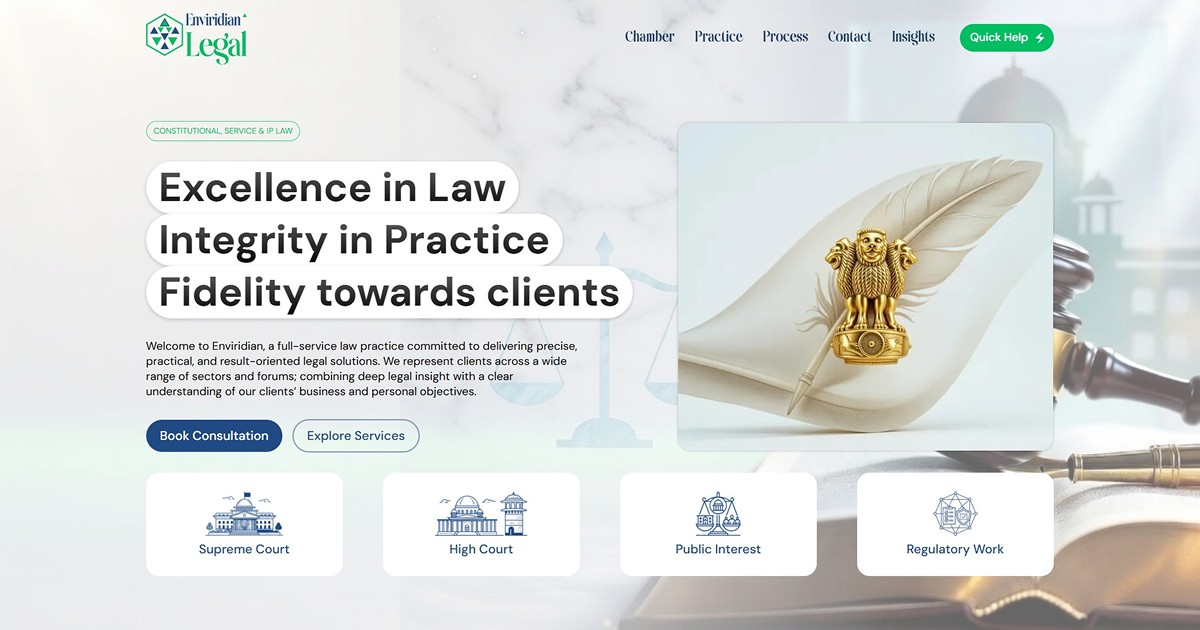
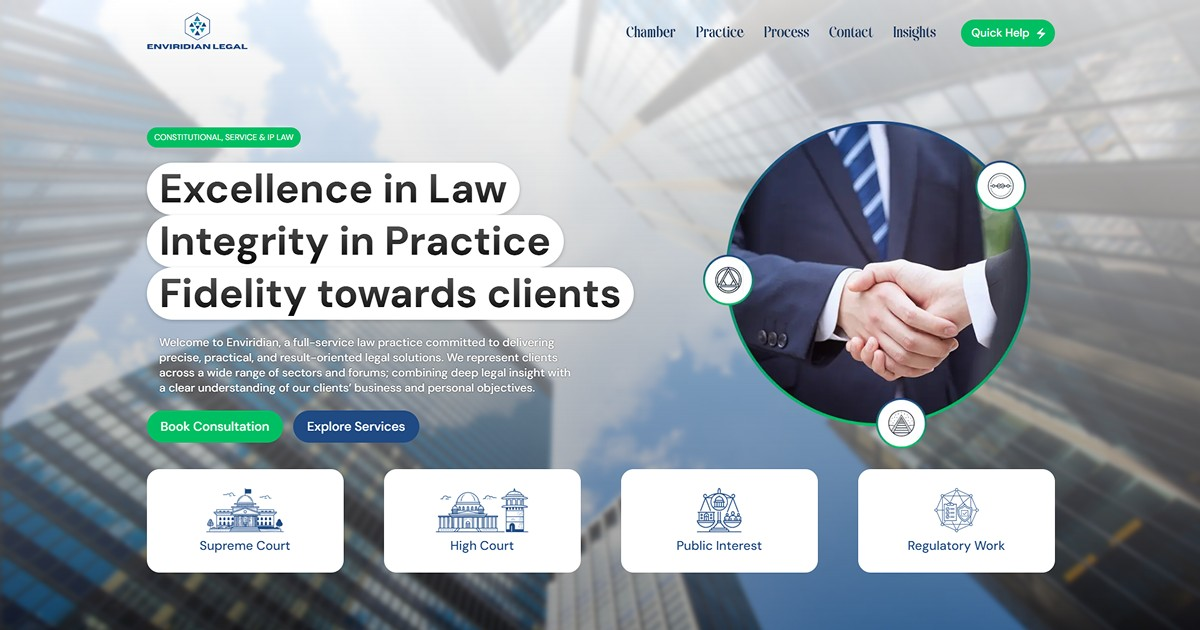
Homepage hero look change

diff --git a/src/components/pages/homepage/HomePageHero.jsx b/src/components/pages/homepage/HomePageHero.jsx
@@ -14,7 +14,7 @@ import Container from "@/components/layout/Container";
 import FullWidthContainer from "@/components/layout/FullWidthContainer";
 import GetFreeConsultation from "@/components/popups/GetFreeConsultation";
 
-import homepageHero from "../../../../public/assets/images/hero-image-fg.jpg";
+import homepageHero from "../../../../public/assets/images/hero-image-fg-4.png";
 import supremeCourt from "../../../../public/assets/images/supreme-court.png";
 import highCourt from "../../../../public/assets/images/high-court.png";
 import publicInterest from "../../../../public/assets/images/public-interest.png";
@@ -28,7 +28,7 @@ const HomePageHero = ({ sectionID, styles }) => {
       <section id={sectionID} className={styles.heroSection}>
         <Box sx={{ display: { xs: "block", sm: "block", lg: "block" } }}>
           <FullWidthContainer
-            image="assets/images/hero-image-3.jpg"
+            image="assets/images/hero-image-7.png"
             align="right"
             width="100%"
             height="100%"
@@ -57,7 +57,7 @@ const HomePageHero = ({ sectionID, styles }) => {
               <Grid size={{ xs: 12, sm: 12, lg: 7 }}>
                 <Stack
                   alignItems={{ xs: "center", sm: "flex-start" }}
-                  spacing={4}
+                  spacing={3}
                 >
                   <motion.div
                     initial={{ opacity: 0, y: 50 }}
@@ -66,7 +66,6 @@ const HomePageHero = ({ sectionID, styles }) => {
                   >
                     <Chip
                       color="secondary"
-                      variant="outlined"
                       size="large"
                       label="CONSTITUTIONAL, SERVICE & IP LAW"
                     />
@@ -128,7 +127,7 @@ const HomePageHero = ({ sectionID, styles }) => {
                     >
                       <GetFreeConsultation
                         variant={"contained"}
-                        color={"primary"}
+                        color={"secondary"}
                         boxTitle="Book Consultation With Us"
                         title="Book Consultation"
                         size="large"
@@ -142,10 +141,12 @@ const HomePageHero = ({ sectionID, styles }) => {
                       transition={{ duration: 0.4, delay: 1.2 }}
                     >
                       <Button
+                        color="primary"
                         component={Link}
                         href="/practice-areas"
-                        variant="outlined"
+                        variant="contained"
                         size="large"
+                        disableElevation
                       >
                         Explore Services
                       </Button>
@@ -169,8 +170,6 @@ const HomePageHero = ({ sectionID, styles }) => {
                     marginTop={{ xs: 4, sm: 8, lg: 0 }}
                     sx={{
                       display: { xs: "block", sm: "block", lg: "block" },
-                      borderRadius: "var(--high-rounded)",
-                      boxShadow: "var(--low-shadow)",
                     }}
                   >
                     <Image
@@ -179,9 +178,8 @@ const HomePageHero = ({ sectionID, styles }) => {
                       fill
                       sizes="(max-width: 600px) 100vw, (max-width: 1024px) 50vw, 33vw"
                       style={{
-                        objectFit: "cover",
+                        objectFit: "contain",
                         transform: "scale(1)",
-                        borderRadius: "var(--high-rounded)",
                       }}
                     />
                   </Box>
@@ -210,7 +208,7 @@ const HomePageHero = ({ sectionID, styles }) => {
                       width={150}
                       height={70}
                       alt={"Practice In Supreme Court Of India"}
-                      style={{objectFit:"contain"}}
+                      style={{ objectFit: "contain" }}
                     />
                     <span>Supreme Court</span>
                   </Stack>
@@ -225,7 +223,7 @@ const HomePageHero = ({ sectionID, styles }) => {
                       width={150}
                       height={70}
                       alt={"Practice In High Court Of India"}
-                      style={{objectFit:"contain"}}
+                      style={{ objectFit: "contain" }}
                     />
                     <span>High Court</span>
                   </Stack>
@@ -240,7 +238,7 @@ const HomePageHero = ({ sectionID, styles }) => {
                       width={150}
                       height={70}
                       alt={"Matters related to public interest"}
-                      style={{objectFit:"contain"}}
+                      style={{ objectFit: "contain" }}
                     />
                     <span>Public Interest</span>
                   </Stack>
@@ -255,7 +253,7 @@ const HomePageHero = ({ sectionID, styles }) => {
                       width={150}
                       height={70}
                       alt={"Regulatory matters and legal regulations"}
-                      style={{objectFit:"contain"}}
+                      style={{ objectFit: "contain" }}
                     />
                     <span>Regulatory Work</span>
                   </Stack>

diff --git a/src/styles/pages/HomePage.module.css b/src/styles/pages/HomePage.module.css
@@ -10,7 +10,9 @@
   left: 0;
   width: 100%;
   height: 100%;
-  background: var(--white-dim-overlay);
+  background: var(--cascading-white-overlay);
+  -webkit-backdrop-filter: blur(4px);
+  backdrop-filter: blur(4px);
   z-index: var(--z-index-hero-video-overlay);
 }
 
@@ -46,7 +48,10 @@
 
 .heroDescription {
   max-width: 700px;
-  color: var(--black);
+  color: var(--white);
+  padding: 0 20px;
+  text-shadow: 0px 0px 2px var(--black);
+  font-weight: 500;
 }
 
 .heroCard {
